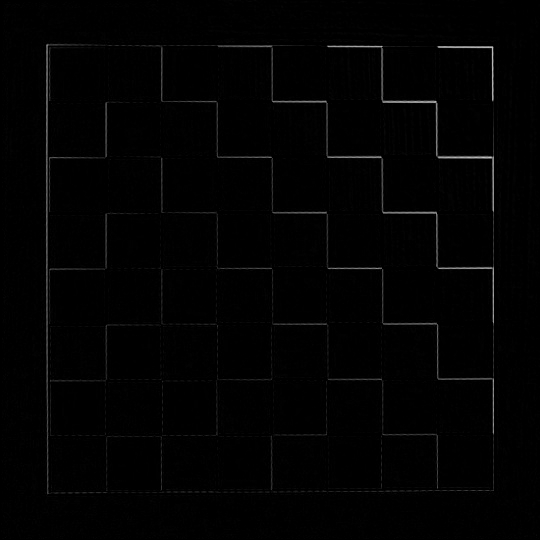
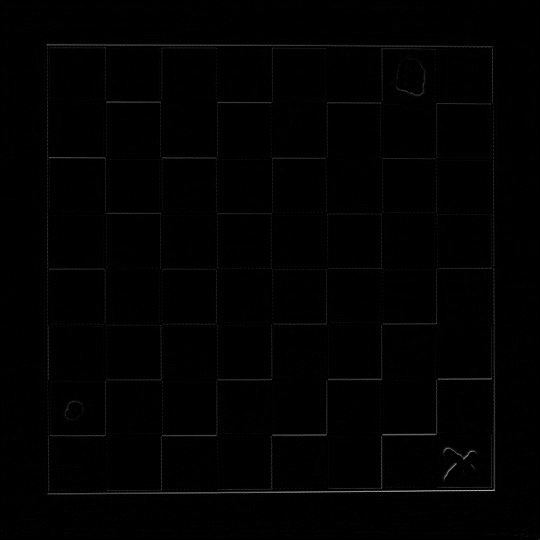
Changed image realignment to a class
Need to change others into classes and need to rescale output image to be the same size as input so check equal works.

diff --git a/Automatic_PCBA_Inspector/realign.cpp b/Automatic_PCBA_Inspector/realign.cpp
@@ -1,6 +1,81 @@
 #include "realign.h"
 
-Realign::Realign()
-{
+class Realign Realign;
 
+double Realign::image_realignment(Mat reference, Mat input)
+{
+//    //A function that uses ORB to detect key features and align images with homography
+//    void image_alignment(Mat B, Mat A, Mat imReg, Mat h)
+
+    {
+        //Create two empty matrices for use as grayscale images
+        Mat AGray, BGray;
+        // Convert A and B matrix to grayscale matrix, AGray and BGray
+        cvtColor(reference, AGray, COLOR_BGR2GRAY);
+        cvtColor(input, BGray, COLOR_BGR2GRAY);
+
+        //Create two vector variables to store keypoints
+        vector<KeyPoint> keypointsReference, keypointsInput;
+        //Create two matrices to describe the keypoints for ORB feature detection
+        Mat descriptorsReference, descriptorsInput;
+
+        // Detect ORB features and compute descriptors
+        Ptr<Feature2D> orb = ORB::create(max_features);
+        orb->detectAndCompute(AGray, Mat(), keypointsReference, descriptorsReference);
+        orb->detectAndCompute(BGray, Mat(), keypointsInput, descriptorsInput);
+
+        //Create a vector variable to store matches
+        vector<DMatch> matches;
+        //Use Description matcher to match the descriptors from the reference and the input
+        Ptr<DescriptorMatcher> matcher = DescriptorMatcher::create("BruteForce-Hamming");
+        matcher->match(descriptorsReference, descriptorsInput, matches, Mat());
+
+        // Sort matches by score
+        sort(matches.begin(), matches.end());
+
+        // Remove matches under the good match percentage
+        const int numGoodMatches = matches.size() * good_match_percent;
+        matches.erase(matches.begin() + numGoodMatches, matches.end());
+
+
+        //Create a matrix for drawing matches on
+        Mat imMatches;
+        // Draw the best matches on the images
+        drawMatches(reference, keypointsReference, input, keypointsInput, matches, imMatches);
+        //Save drawn image as matches.jpg
+        imwrite(calculation_img_path + "matches.jpg", imMatches);
+
+        // Extract location of good matches
+        vector<Point2f> pointsReference, pointsInput;
+
+        //Run a for loop to loop location finding of good matches
+        for (size_t i = 0; i < matches.size(); i++)
+        {
+            pointsReference.push_back(keypointsReference[matches[i].queryIdx].pt);
+            pointsInput.push_back(keypointsInput[matches[i].trainIdx].pt);
+        }
+
+        //Calculate homography
+        homography_matrix = findHomography(pointsReference, pointsInput, RANSAC);
+
+        //Use homography to warp image for use in alignment
+        warpPerspective(reference, output, homography_matrix, input.size());
+
+        //Save the output file
+        imwrite(output_img_path + "aligned_image.jpg", output);
+
+        //Print estimated homography
+        cout << "Estimated homography" << endl << homography_matrix << endl;
+
+        //Display matches
+        namedWindow("Matches", WINDOW_NORMAL);
+        Mat match_draw = imread(calculation_img_path + "matches.jpg");
+        imshow("Matches", match_draw);
+        //Display output
+        namedWindow("Output", WINDOW_NORMAL);
+        Mat Aligned = imread(output_img_path + "aligned_image.jpg");
+        imshow("Output", Aligned);
+
+        return 0;
+    }
 }

diff --git a/Automatic_PCBA_Inspector/homography_check.h b/Automatic_PCBA_Inspector/homography_check.h
@@ -1,9 +1,14 @@
 #ifndef HOMOGRAPHY_CHECK_H_
 #define HOMOGRAPHY_CHECK_H_
-#include "Shared_include.h"
+#include "shared_include.h"
 #pragma once
 using namespace std;
 using namespace cv;
+
+//Global constant for the maximum number of features to search for
+const int max_features2 = 500;
+//Global constant for the percentage match requirement
+const float good_match_percent2 = 0.15f;
 
 //A function that uses ORB to detect key features and align images with homography
 void image_alignment(Mat B, Mat A, Mat imReg, Mat h)
@@ -21,7 +26,7 @@ void image_alignment(Mat B, Mat A, Mat imReg, Mat h)
     Mat descriptorsA, descriptorsB;
 
     // Detect ORB features and compute descriptors
-    Ptr<Feature2D> orb = ORB::create(max_features);
+    Ptr<Feature2D> orb = ORB::create(max_features2);
     orb->detectAndCompute(AGray, Mat(), keypointsA, descriptorsA);
     orb->detectAndCompute(BGray, Mat(), keypointsB, descriptorsB);
 
@@ -35,7 +40,7 @@ void image_alignment(Mat B, Mat A, Mat imReg, Mat h)
     sort(matches.begin(), matches.end());
 
     // Remove matches under the good match percentage
-    const int numGoodMatches = matches.size() * good_match_percent;
+    const int numGoodMatches = matches.size() * good_match_percent2;
     matches.erase(matches.begin() + numGoodMatches, matches.end());
 
 
@@ -71,7 +76,7 @@ void image_alignment(Mat B, Mat A, Mat imReg, Mat h)
 
 
 
-double homography_check(Mat A, Mat B, int max_features)
+double homography_check(Mat A, Mat B)
 {
     //Create matrices to store the registered image and to store the homography matrix
     Mat h;

diff --git a/Automatic_PCBA_Inspector/main.cpp b/Automatic_PCBA_Inspector/main.cpp
@@ -14,18 +14,17 @@ Use this code as a base for your assignment.
 This is a proof of concept software to demonstrate the use of machine vision for automated circuit inspection
 
 */
-#include "Shared_include.h"
-#include "Check_equal.h"
-#include "Homography_check.h"
+#include "shared_include.h"
+#include "check_equal.h"
+#include "homography_check.h"
+#include "realign.h"
 //#include "main.h"
 using namespace std;
 using namespace cv;
 //Global definitions for image paths
-static string referenceimg(test_img_path + "Chessboard.jpg");
-static string productimg(test_img_path + "Chessboard_rotated.jpg");
+static string referenceimg(test_img_path + "Chessboardmod.jpg");
+static string productimg(test_img_path + "Chessboardmod_rotated.jpg");
 static string fixedimg(output_img_path + "aligned_image.jpg");
-//static string referenceimg("C:/Samples/Chessboard.jpg");
-//static string productimg("C:/Samples/Chessboard_rotated.jpg");
 
 int main()
 {
@@ -70,7 +69,9 @@ int main()
         //Check if the images are equal
         check_equal(img0, img1);
         //Perform ORB feature detection and homography translation on the images
-        homography_check(img0, img1, max_features);
+        //homography_check(img0, img1);
+        Realign.image_realignment(img0, img1);
+
         check_equal(img0, img2);
     }
     //Wait until 0 is pressed to exit

diff --git a/Automatic_PCBA_Inspector/shared_include.h b/Automatic_PCBA_Inspector/shared_include.h
@@ -6,7 +6,6 @@
 #include <iostream>
 #include <fstream>
 #include <string>
-#include <iostream>
 #include <opencv2/core/core.hpp>
 #include <opencv2/highgui/highgui.hpp>
 #include <opencv2/imgproc/imgproc.hpp>
@@ -16,17 +15,10 @@
 //#include <opencv2/xfeatures2d.hpp> //isolated as not found
 using namespace std;
 using namespace cv;
-#include <string>					//Search for and include the input output header
-#include <iostream>					//Search for and include iostream
 //Global constant for test and reference images file path
 const string test_img_path = "C:/Samples/";
 //Global constant for calculation images file path
 const string calculation_img_path = "C:/Samples/Calculation images/";
 //Global constant for output images file path
 const string output_img_path = "C:/Samples/Output images/";
-//Global constant for the maximum number of features to search for
-const int max_features = 500;
-//Global constant for the percentage match requirement
-const float good_match_percent = 0.15f;
-
 #endif

diff --git a/Automatic_PCBA_Inspector/realign.h b/Automatic_PCBA_Inspector/realign.h
@@ -1,11 +1,28 @@
 #ifndef REALIGN_H
 #define REALIGN_H
+#include "shared_include.h"
+#pragma once
 
+using namespace std;
+using namespace cv;
+
+//Global constant for the maximum number of features to search for
+const int max_features = 500;
+//Global constant for the percentage match requirement for each feature
+const float good_match_percent = 0.15f;
 
 class Realign
 {
-public:
-    Realign();
+    //Define the public variables and functions
+    public:
+        double image_realignment(Mat reference, Mat input);   //A function that uses ORB feature detection to realign images using homography
+    //Define private variables and functions
+    private:
+        Mat homography_matrix;
+        Mat output;
+        Mat reference_gray;
+        Mat input_grey;
 };
 
+extern Realign Realign;
 #endif // REALIGN_H

diff --git a/Automatic_PCBA_Inspector/check_equal.h b/Automatic_PCBA_Inspector/check_equal.h
@@ -4,7 +4,7 @@ This function checks that two image matrices have the same size and number of ch
 //Define header name and include and use relevant libraries
 #ifndef CHECK_EQUAL_H_
 #define CHECK_EQUAL_H_
-#include "Shared_include.h"
+#include "shared_include.h"
 #pragma once
 using namespace std;
 using namespace cv;
@@ -52,7 +52,7 @@ double check_equal(const Mat A, const Mat B)
         else
         {
             //If there is a difference when subtracting image A and image B then print that the images are not equal
-            printf("The images are not equal\n");
+            printf("The images are not equal\n Blue %i\n Red %i\n Green %i\n", blue_compare, red_compare, green_compare);
         }
     }
     return 0;
